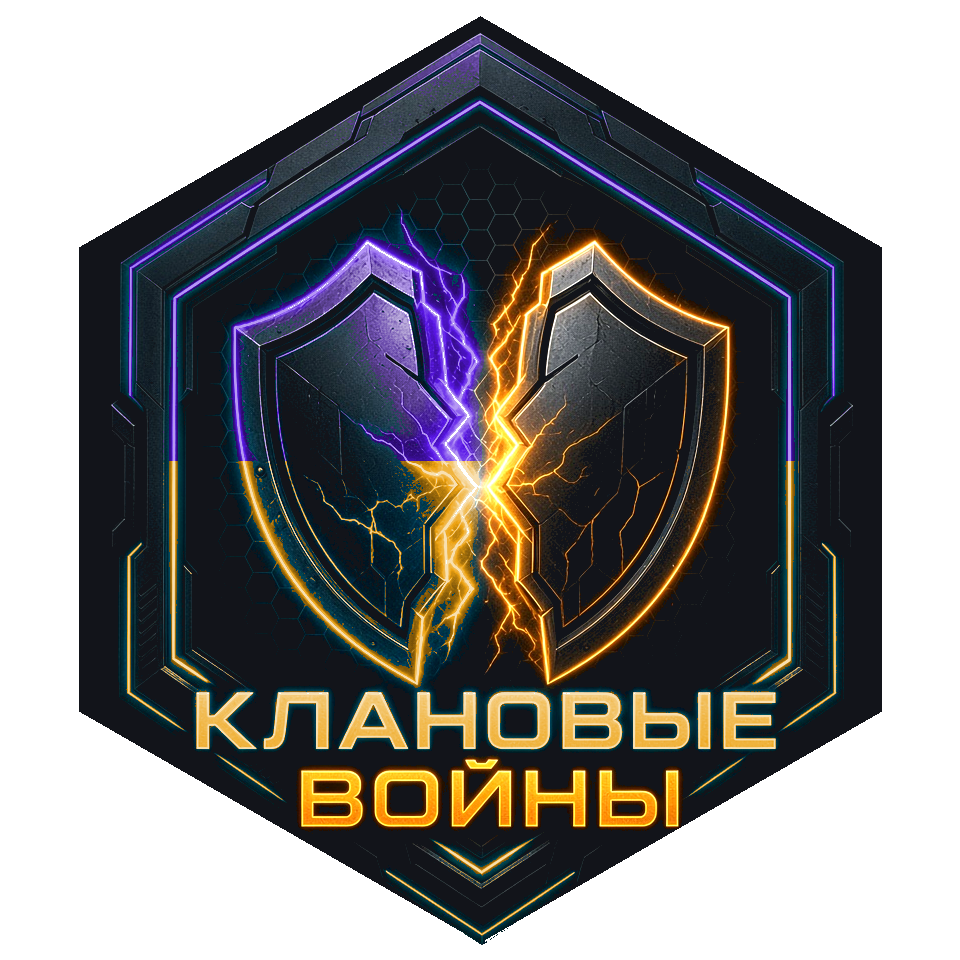
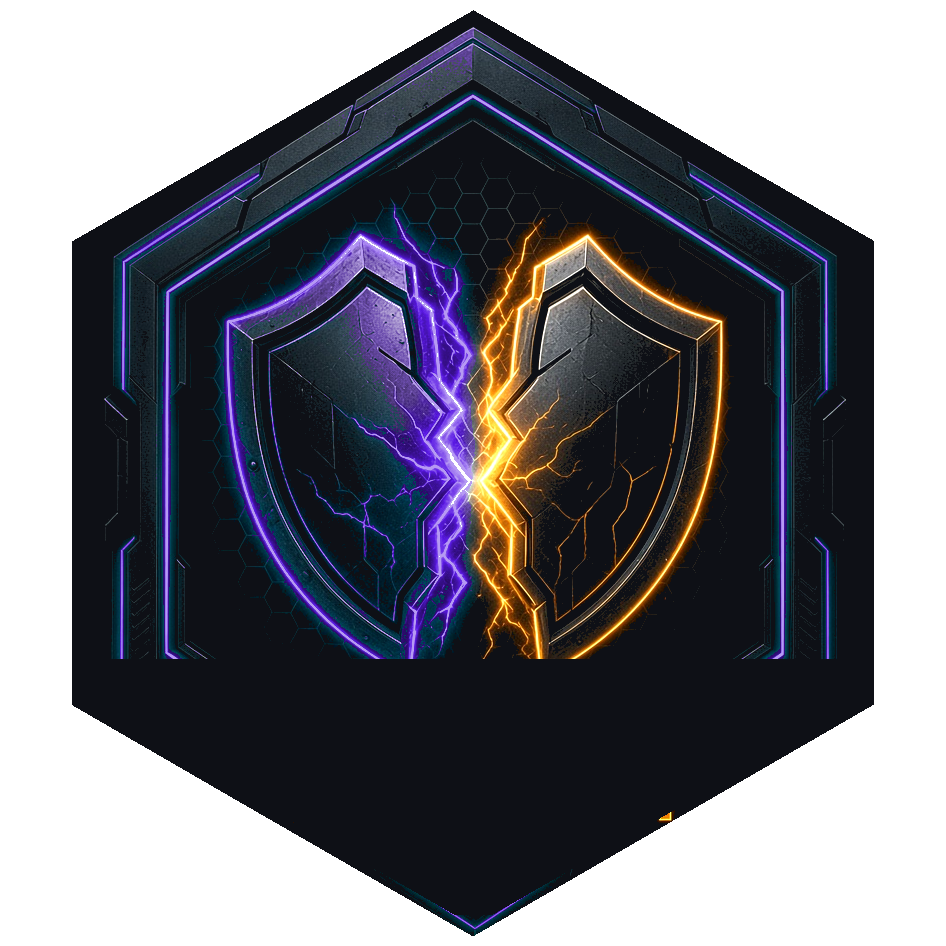
Center hub grid in the void, clip shields, and enlarge yellow labels.

Changed region(s): [[0.092, 0.0, 0.9503, 1.0], [0.0613, 0.2452, 0.1226, 0.7664], [0.889, 0.7357, 0.9197, 0.7664]]

diff --git a/src/app/globals.css b/src/app/globals.css
@@ -22406,7 +22406,12 @@ body:has(.home-page.is-hub),
   z-index: 1;
   flex: 1 1 auto;
   width: 100%;
+  height: 100%;
   min-height: 0;
+  display: flex;
+  justify-content: center;
+  align-items: center;
+  overflow: hidden;
 }
 
 .home-layout.is-hub {
@@ -22414,6 +22419,9 @@ body:has(.home-page.is-hub),
   grid-template-areas: "hub";
   padding: 0;
   column-gap: 0;
+  /* центр канвы = центр фона cover → сетка в дыре */
+  transform-origin: center center;
+  margin: 0;
 }
 
 .home-hub {
@@ -22573,20 +22581,20 @@ body:has(.home-page.is-hub),
   background: rgba(110, 35, 55, 0.55);
 }
 
-/* вписанный квадрат в чёрную дыру полигона (~27% img, с запасом) */
+/* вписанный квадрат строго в чёрную дыру */
 .home-hub-grid {
   position: absolute;
   z-index: 1;
-  left: 50%;
-  top: 50%;
+  left: 50.5%;
+  top: 49.7%;
   translate: -50% -50%;
-  width: 25.5%;
+  width: 24%;
   aspect-ratio: 1 / 1;
   height: auto;
   display: grid;
   grid-template-columns: repeat(3, minmax(0, 1fr));
   grid-template-rows: repeat(3, minmax(0, 1fr));
-  gap: 2px;
+  gap: 3px;
   min-width: 0;
   min-height: 0;
   padding: 0;
@@ -22607,12 +22615,20 @@ body:has(.home-page.is-hub),
   overflow: visible;
   outline: none;
   transition: none;
+  /* клип всей плитки по щиту — квадрат не вылезает */
+  clip-path: polygon(
+    50% 2%,
+    95% 26.5%,
+    95% 73.5%,
+    50% 98%,
+    5% 73.5%,
+    5% 26.5%
+  );
 }
 
-/* свечение только на hover, без квадратной подложки */
 .home-hub-tile-plate {
   position: absolute;
-  inset: 12%;
+  inset: 14%;
   z-index: 0;
   border: none;
   border-radius: 50%;
@@ -22645,7 +22661,6 @@ body:has(.home-page.is-hub),
   outline: none;
 }
 
-/* фон/арт строго по контуру щита (pointy hex) — без квадрата под ним */
 .home-hub-tile-art {
   position: absolute;
   inset: 0;
@@ -22658,23 +22673,43 @@ body:has(.home-page.is-hub),
   filter: none;
   pointer-events: none;
   transition: filter 0.22s ease;
-  clip-path: polygon(
-    50% 1.5%,
-    96% 26%,
-    96% 74%,
-    50% 98.5%,
-    4% 74%,
-    4% 26%
-  );
 }
 
 .home-hub-tile:hover .home-hub-tile-art,
 .home-hub-tile:focus-visible .home-hub-tile-art {
-  /* лёгкий soft glow как у наград, без изменения размера */
   filter:
     drop-shadow(0 0 8px rgba(167, 139, 250, 0.55))
     drop-shadow(0 0 16px rgba(196, 181, 253, 0.28))
     brightness(1.06);
+}
+
+.home-hub-tile-label {
+  position: absolute;
+  z-index: 2;
+  left: 10%;
+  right: 10%;
+  bottom: 11%;
+  display: flex;
+  flex-direction: column;
+  align-items: center;
+  justify-content: flex-end;
+  gap: 0;
+  pointer-events: none;
+  text-align: center;
+  line-height: 1.05;
+}
+
+.home-hub-tile-label-line {
+  display: block;
+  font-size: clamp(0.62rem, 0.95vw, 0.92rem);
+  font-weight: 800;
+  letter-spacing: 0.04em;
+  text-transform: uppercase;
+  color: #ffb21b;
+  text-shadow:
+    0 0 4px rgba(0, 0, 0, 0.95),
+    0 1px 2px rgba(0, 0, 0, 1),
+    0 0 10px rgba(255, 178, 27, 0.35);
 }
 
 .wip-stub-page {

diff --git a/src/lib/homeHub.ts b/src/lib/homeHub.ts
@@ -10,6 +10,8 @@ export const HOME_HUB_BG_FILE = "/home-hub/hub-poly-clean-v4.jpg";
 export type HomeHubTile = {
   id: string;
   title: string;
+  /** Large readable caption on the tile (yellow). */
+  label: string;
   image: string;
   /** Real route or WIP stub. */
   href: string;
@@ -21,36 +23,42 @@ export const HOME_HUB_TILES: HomeHubTile[] = [
   {
     id: "tournaments",
     title: "Турниры",
+    label: "ТУРНИРЫ",
     image: "/home-hub/tournaments.png",
     href: "/tournaments",
   },
   {
     id: "public",
     title: "Рейтинг паблика",
+    label: "РЕЙТИНГ\nПАБЛИКА",
     image: "/home-hub/public-rating.png",
     href: "/public",
   },
   {
     id: "cw",
     title: "Клановые войны",
+    label: "КЛАНОВЫЕ\nВОЙНЫ",
     image: "/home-hub/clan-wars.png",
     href: "/cw",
   },
   {
     id: "training",
     title: "Тренировка BlackBerry",
+    label: "ТРЕНИРОВКА",
     image: "/home-hub/training.png",
     href: "/tm",
   },
   {
     id: "battle-pass",
     title: "Battle Pass",
+    label: "BATTLE PASS",
     image: "/home-hub/battle-pass.png",
     href: "/battle-pass",
   },
   {
     id: "marketplace",
     title: "Торговая Площадка",
+    label: "ТОРГОВАЯ\nПЛОЩАДКА",
     image: "/home-hub/marketplace.png",
     href: "/wip/marketplace",
     stub: true,
@@ -58,12 +66,14 @@ export const HOME_HUB_TILES: HomeHubTile[] = [
   {
     id: "my-clan",
     title: "Мой клан",
+    label: "МОЙ КЛАН",
     image: "/home-hub/my-clan.png",
     href: "/clans",
   },
   {
     id: "my-team",
     title: "Моя команда",
+    label: "МОЯ\nКОМАНДА",
     image: "/home-hub/my-team.png",
     href: "/wip/team",
     stub: true,
@@ -71,6 +81,7 @@ export const HOME_HUB_TILES: HomeHubTile[] = [
   {
     id: "my-faction",
     title: "Моя фракция",
+    label: "МОЯ\nФРАКЦИЯ",
     image: "/home-hub/my-faction.png",
     href: "/wip/faction",
     stub: true,

diff --git a/src/components/HomeFit.tsx b/src/components/HomeFit.tsx
@@ -46,9 +46,14 @@ export function HomeFit({
       board.style.setProperty("--home-scale", String(scale));
       board.style.setProperty("--home-hero-lift", "0px");
       board.style.setProperty("--home-hero-nudge-x", "0px");
+      if (hub) {
+        // канва по центру экрана — сетка совпадает с дырой фона cover
+        host.style.width = "100%";
+        host.style.height = "100%";
+        return;
+      }
       host.style.width = "";
       host.style.height = `${Math.round(DESIGN_H * scale)}px`;
-      if (hub) return;
       const brand = board.querySelector<HTMLElement>(".home-hero-brand");
       const side = board.querySelector<HTMLElement>(".home-side");
       if (brand && side) {

diff --git a/src/components/HomeHub.tsx b/src/components/HomeHub.tsx
@@ -52,8 +52,15 @@ export function HomeHub({ showCw, cwCards }: Props) {
               <span
                 className="home-hub-tile-art"
                 aria-hidden="true"
-                style={{ backgroundImage: `url(${tile.image}?v=plate8)` }}
+                style={{ backgroundImage: `url(${tile.image}?v=plate9)` }}
               />
+              <span className="home-hub-tile-label">
+                {tile.label.split("\n").map((line) => (
+                  <span key={line} className="home-hub-tile-label-line">
+                    {line}
+                  </span>
+                ))}
+              </span>
             </Link>
           ))}
         </nav>

diff --git a/docs/CHANGELOG.md b/docs/CHANGELOG.md
@@ -1,3 +1,9 @@
+## v. 1.2.159 — 05.11.2026 · Хаб: центр дыры + читаемые подписи
+
+Канва по центру экрана. Сетка в чёрном периметре. Щиты без квадратного фона. Крупные жёлтые подписи поверх.
+
+---
+
 ## v. 1.2.158 — 05.11.2026 · Хаб: разделы строго внутри полигона
 
 Фон зафиксирован. Сетка ужата в чёрную дыру. Подложка плитки обрезана по контуру щита.
